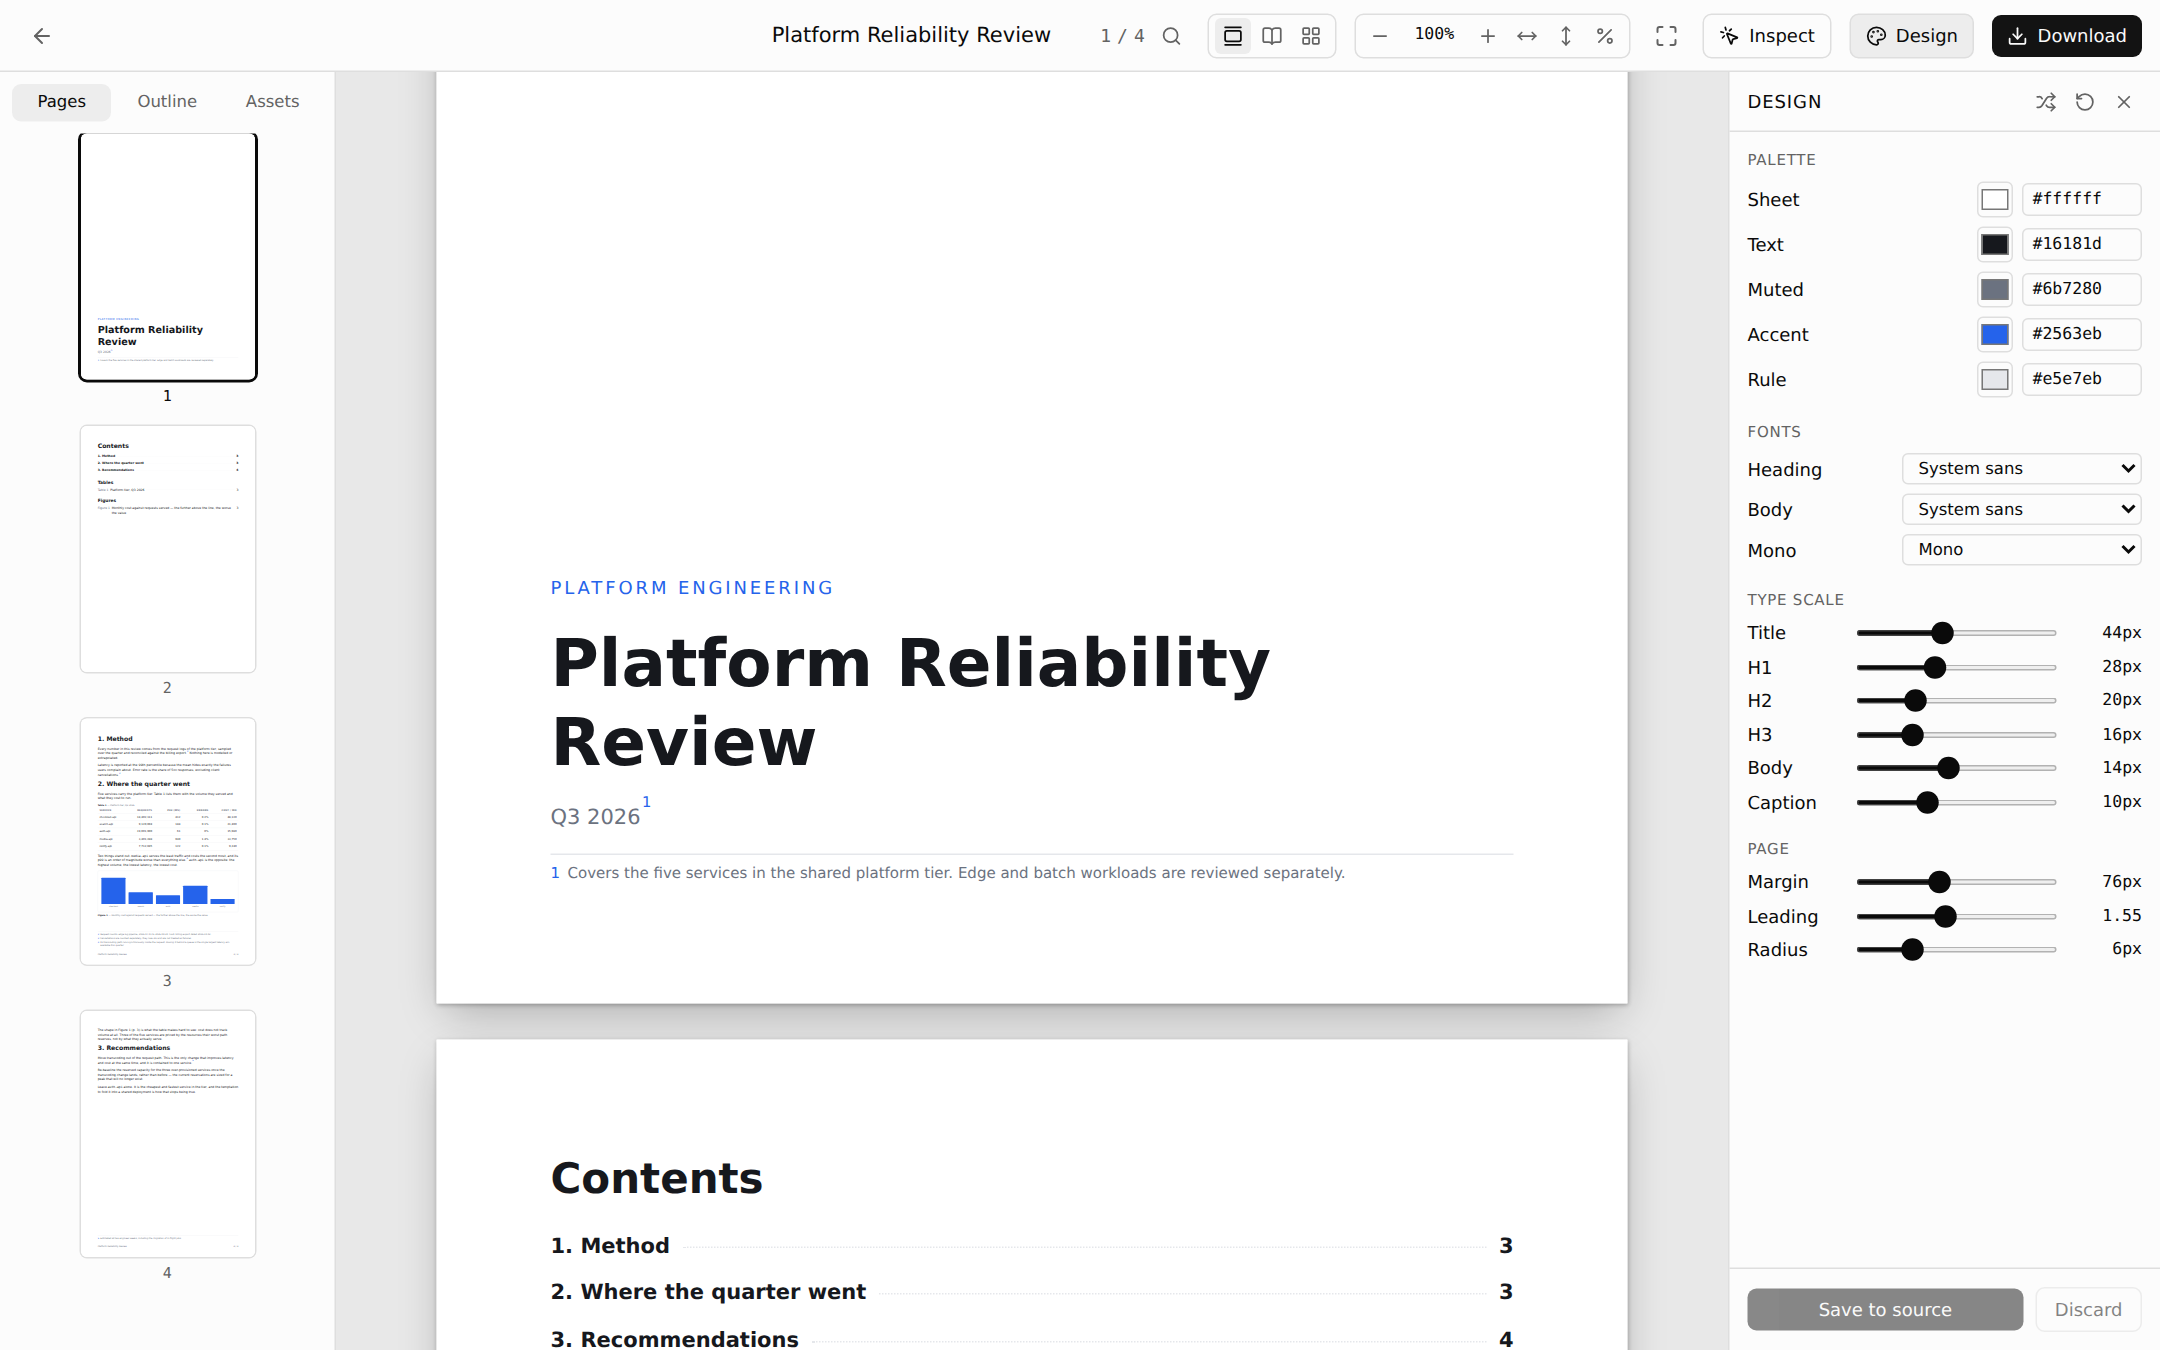
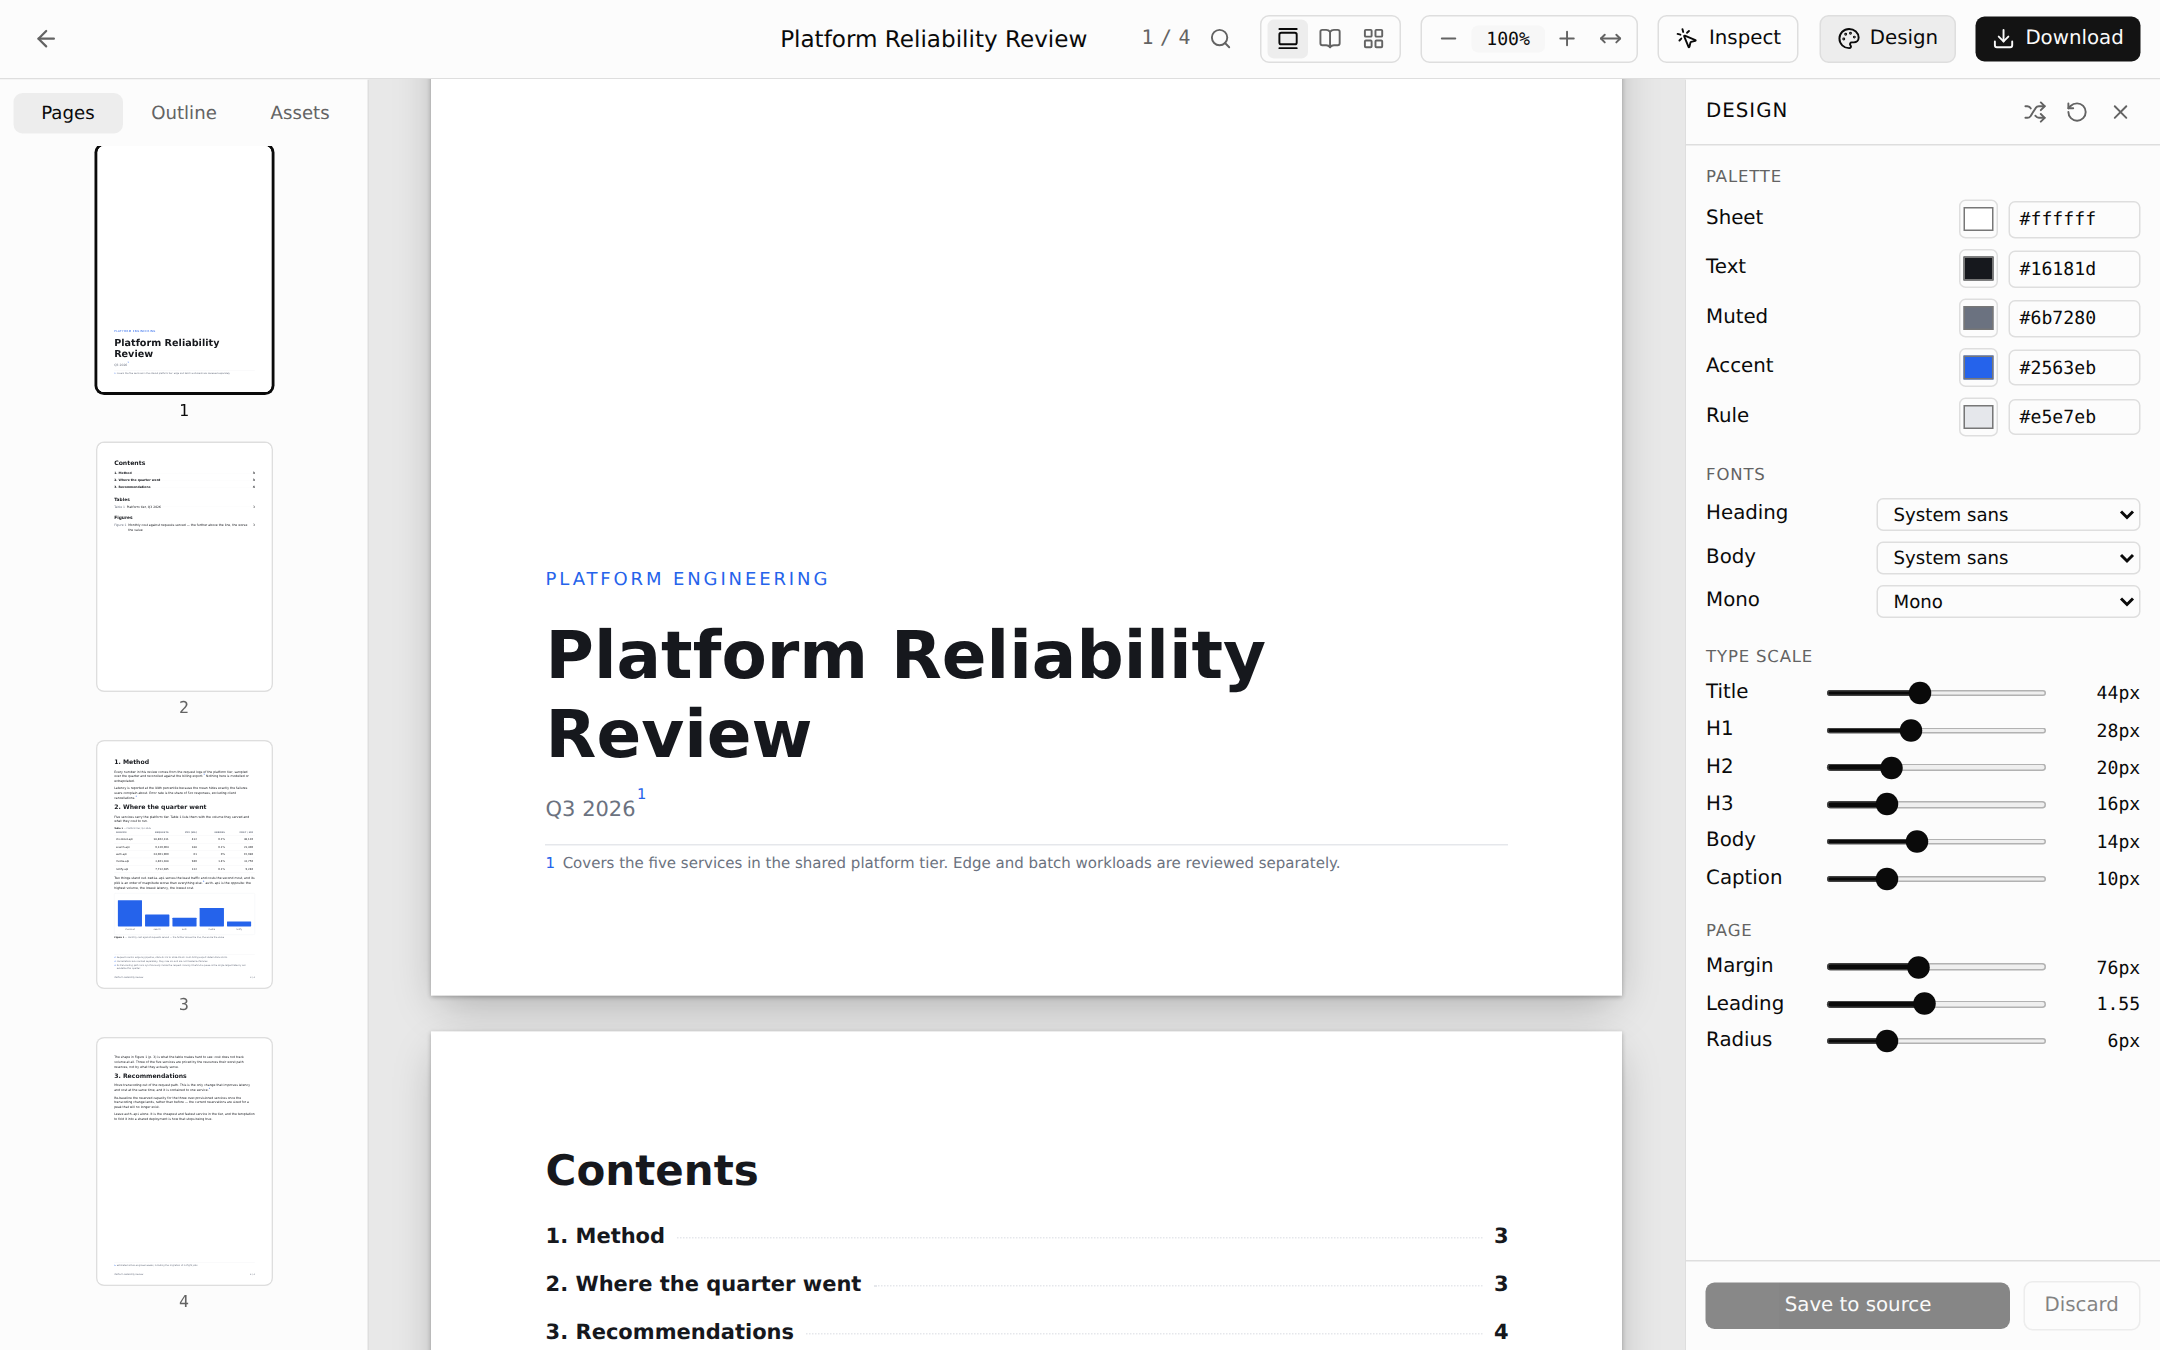
README 更新截圖與過時內容；加上中文名稱墨閣
- 重拍 README 的檢視器與 Design 截圖：工具列已沒有全螢幕、符合頁面與實際大小
- mosage check 補上找不到對象的交互參照；upgrade 會一併對齊 Vite
- README、套件說明、範本 README、CLAUDE.md、CONTRIBUTING.md 加上中文名稱「墨閣」

Claude-Session: https://claude.ai/code/session_01YARe2f22wmsKFRiAL2mXvK

diff --git a/.changeset/flat-images-no-code.md b/.changeset/flat-images-no-code.md
@@ -9,3 +9,4 @@
 - 文件檢視器移除全螢幕模式、「符合頁面」與「實際大小」按鈕（點百分比仍可回到 100%）
 - 下載選單的「This page」改為「Current」，選項後不再顯示頁數，下方說明改為具體列出要下載的頁面
 - `mosage init` 的 `AGENTS.md` 更新：拿掉已移除的 HTML 匯出與「預設 A4」的說法，補上 `create-theme`、`apply-comments`、`generate-images` 三個 skills、`check`／`export`／`images` 指令與目前的檢視器功能
+- 套件說明與 README 加上中文名稱「墨閣」

diff --git a/CLAUDE.md b/CLAUDE.md
@@ -1,6 +1,6 @@
 # MoSage 開發指引
 
-這個 repo 是 MoSage 框架本身：發佈到 npm 的 `mosage` 套件，包含檢視器、Vite 外掛、CLI、專案範本與 skills。
+這個 repo 是 MoSage（墨閣）框架本身：發佈到 npm 的 `mosage` 套件，包含檢視器、Vite 外掛、CLI、專案範本與 skills。
 在使用者專案裡撰寫文件的規範不在這裡，而在 `packages/core/skills/` 的 `create-doc`、`doc-authoring` 等 skills——那些是給 `docs/` 底下的檔案用的，不是給框架用的。
 
 ## 結構

diff --git a/CONTRIBUTING.md b/CONTRIBUTING.md
@@ -1,6 +1,6 @@
 # 參與 MoSage 開發
 
-這份文件寫給想修改 MoSage 本身的人：也就是發佈到 npm 的 `mosage` 套件，以及開發用的範例專案。
+這份文件寫給想修改 MoSage（墨閣）本身的人：也就是發佈到 npm 的 `mosage` 套件，以及開發用的範例專案。
 如果你只是用 MoSage 寫文件，不需要讀這份——在專案資料夾裡請 AI 幫忙，或直接編輯 `docs/<代號>/index.tsx` 就好。
 
 ## 回報問題、提出建議

diff --git a/packages/core/README.md b/packages/core/README.md
@@ -1,6 +1,6 @@
 # mosage
 
-讓 AI coding agent 幫你做出要印出來、要交出去的文件：報告、企劃書、白皮書、手冊。
+MoSage（墨閣）讓 AI coding agent 幫你做出要印出來、要交出去的文件：報告、企劃書、白皮書、手冊。
 Agent 把內容寫成頁面，MoSage 負責紙張尺寸、分頁、目錄與頁碼，並匯出 PDF 或可編輯的 Word。
 
 ```bash

diff --git a/packages/core/template/README.md b/packages/core/template/README.md
@@ -1,6 +1,6 @@
 # 我的文件
 
-這個資料夾是一個 [MoSage](https://github.com/nickchen1998/MoSage) 專案：用 AI 寫文件，在瀏覽器裡預覽成真實的紙張，最後匯出 PDF 或 Word。
+這個資料夾是一個 [MoSage（墨閣）](https://github.com/nickchen1998/MoSage) 專案：用 AI 寫文件，在瀏覽器裡預覽成真實的紙張，最後匯出 PDF 或 Word。
 
 ## 開始
 
